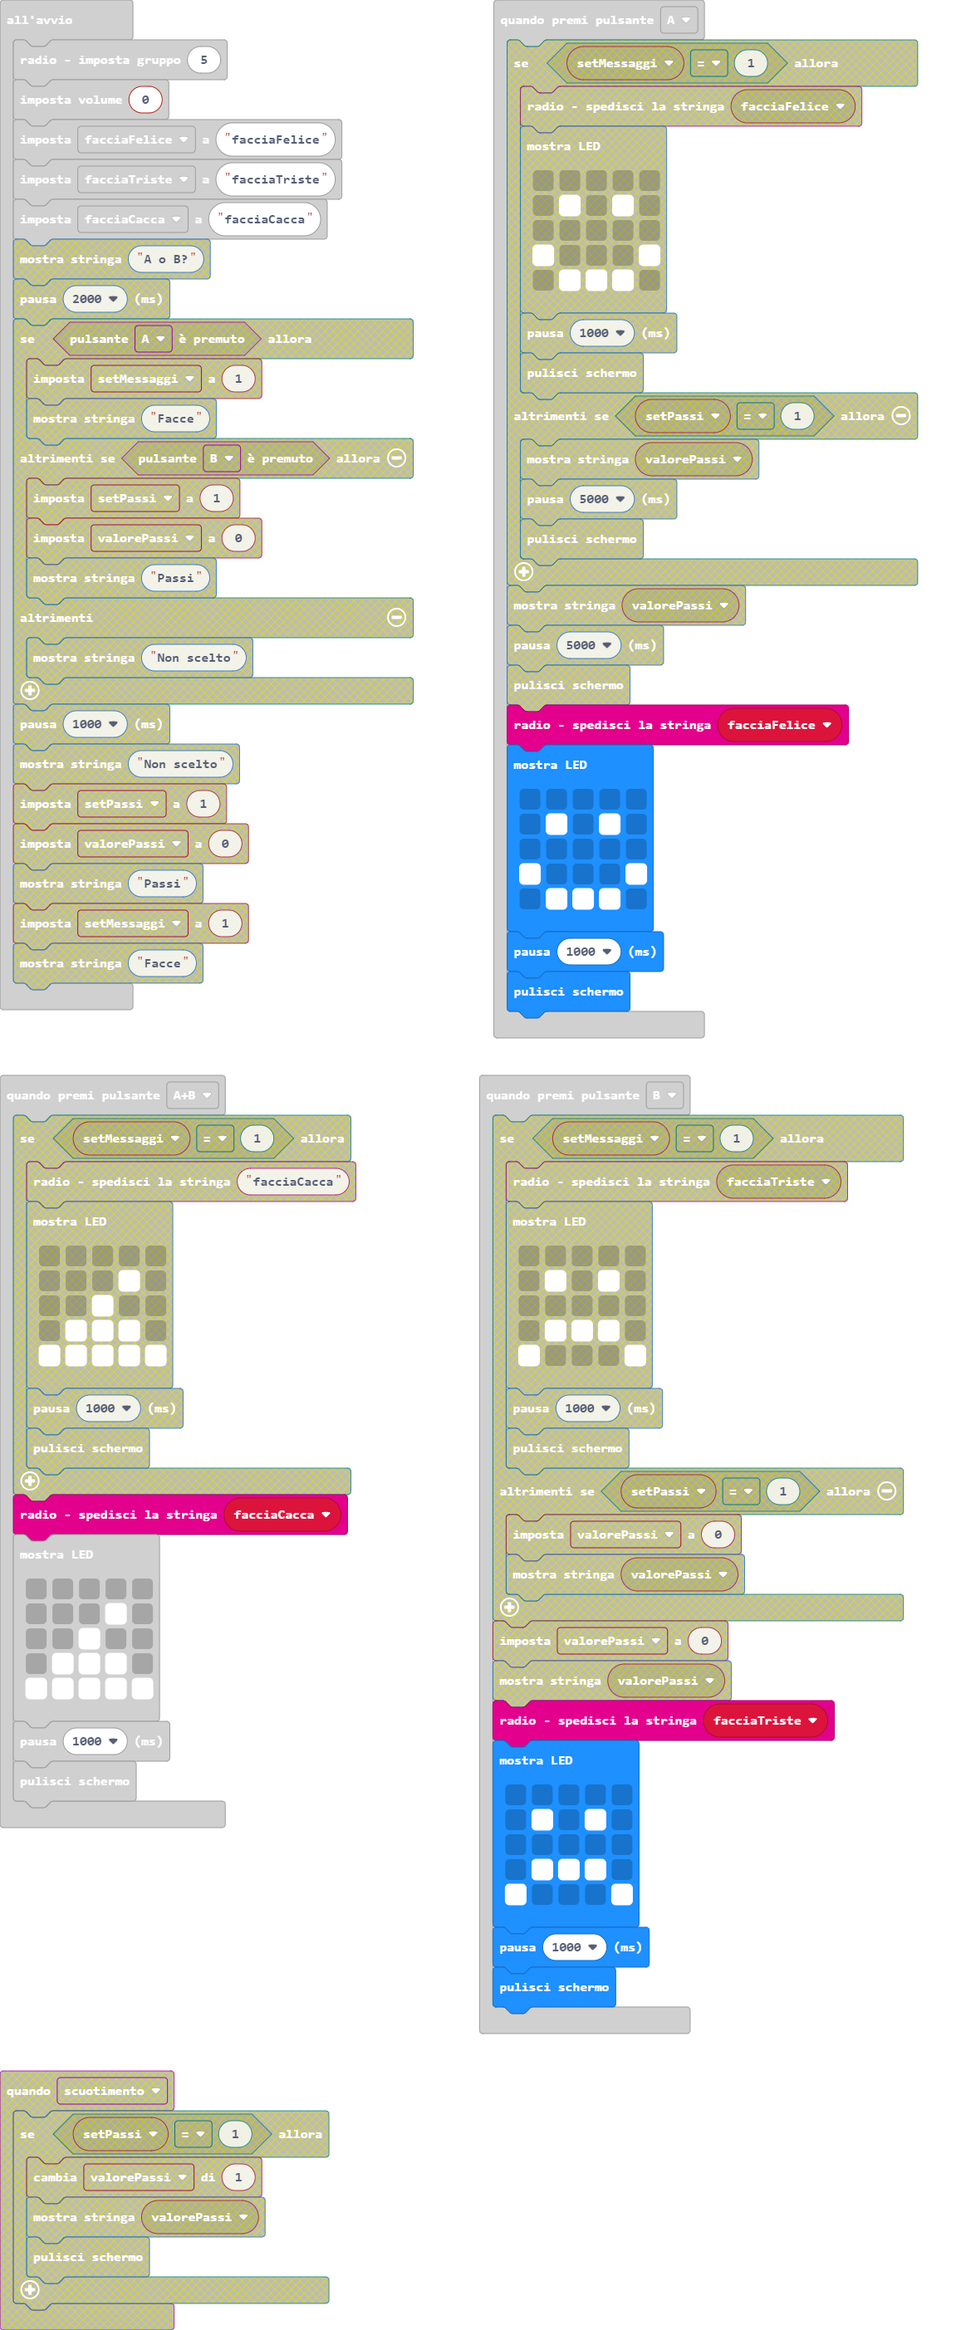
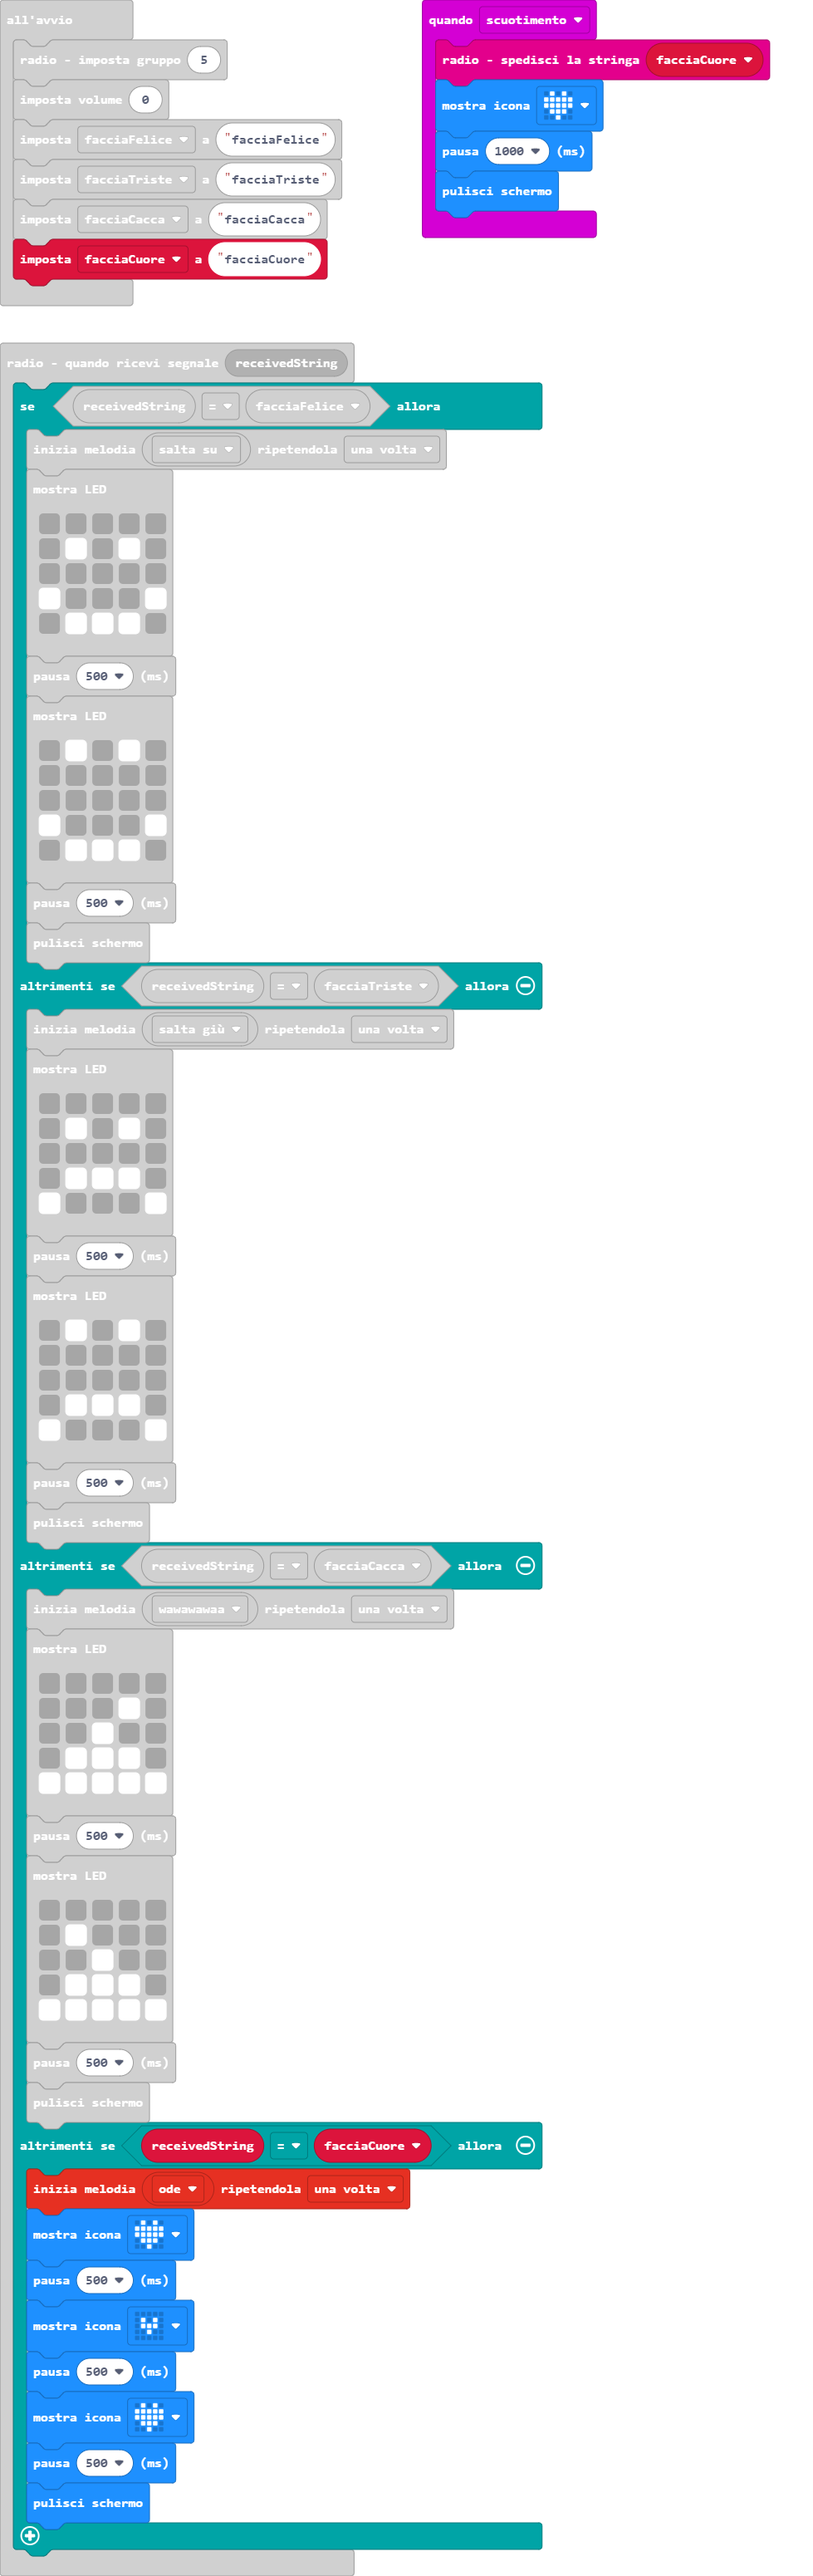
Aggiorna main.blocks, main.ts

diff --git a/main.ts b/main.ts
@@ -10,6 +10,12 @@ input.onButtonPressed(Button.A, function () {
     basic.pause(1000)
     basic.clearScreen()
 })
+input.onGesture(Gesture.Shake, function () {
+    radio.sendString("" + (facciaCuore))
+    basic.showIcon(IconNames.Heart)
+    basic.pause(1000)
+    basic.clearScreen()
+})
 input.onButtonPressed(Button.AB, function () {
     radio.sendString("" + (facciaCacca))
     basic.showLeds(`
@@ -80,6 +86,15 @@ radio.onReceivedString(function (receivedString) {
             `)
         basic.pause(500)
         basic.clearScreen()
+    } else if (receivedString == facciaCuore) {
+        music.startMelody(music.builtInMelody(Melodies.Ode), MelodyOptions.Once)
+        basic.showIcon(IconNames.Heart)
+        basic.pause(500)
+        basic.showIcon(IconNames.SmallHeart)
+        basic.pause(500)
+        basic.showIcon(IconNames.Heart)
+        basic.pause(500)
+        basic.clearScreen()
     }
 })
 input.onButtonPressed(Button.B, function () {
@@ -94,6 +109,7 @@ input.onButtonPressed(Button.B, function () {
     basic.pause(1000)
     basic.clearScreen()
 })
+let facciaCuore = ""
 let facciaCacca = ""
 let facciaTriste = ""
 let facciaFelice = ""
@@ -102,3 +118,4 @@ music.setVolume(0)
 facciaFelice = "facciaFelice"
 facciaTriste = "facciaTriste"
 facciaCacca = "facciaCacca"
+facciaCuore = "facciaCuore"
